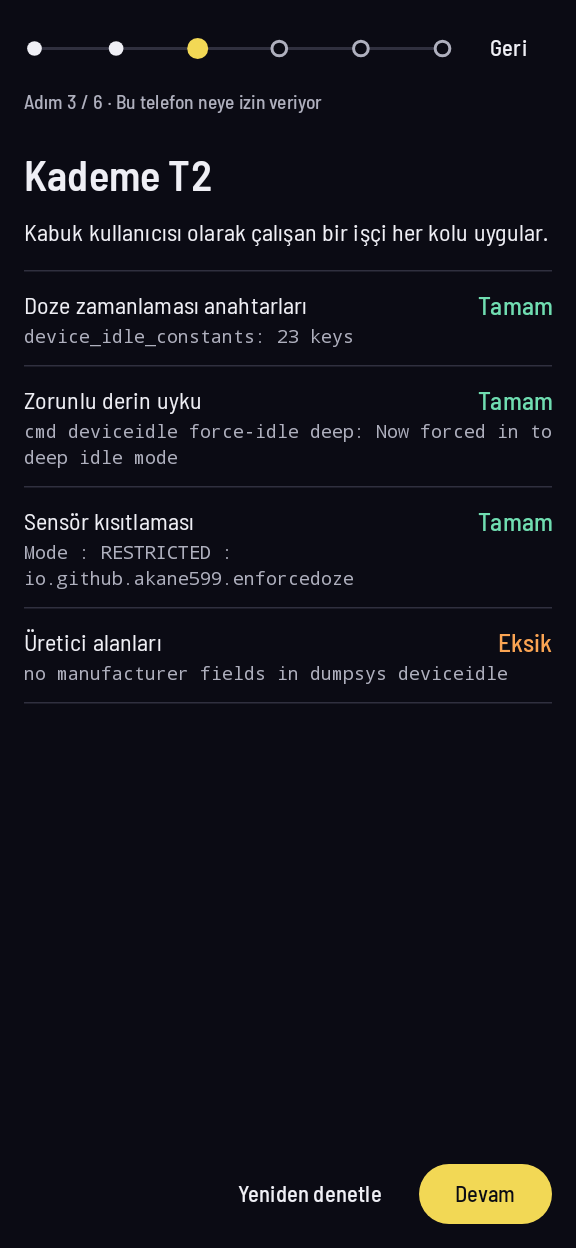
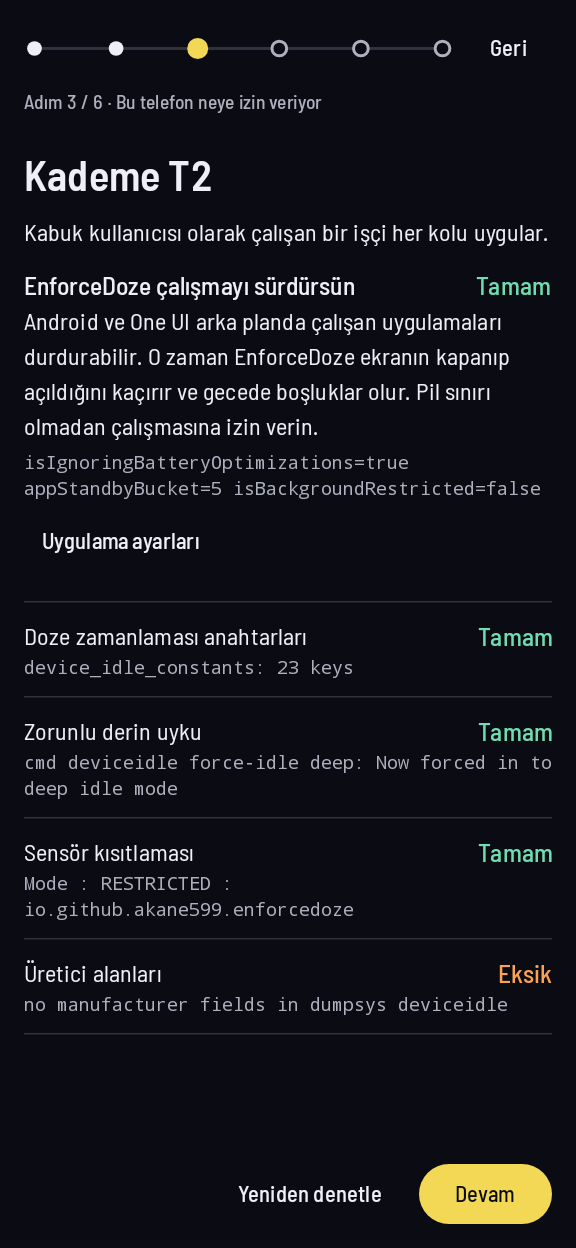
feat(onboarding): keep EnforceDoze running (SPEC 3.3, parity row 35)
The capabilities step now says whether Android and One UI may stop the
app, read back with public calls (the battery-optimisation exemption,
the standby bucket, background restriction) and shown as raw values.
Allow opens the system's own dialog; App settings opens the app's page.
On a Samsung phone the step names where Never sleeping apps lives; that
path is checked in the next phone session (Q14). The state is read
again when the owner comes back.

diff --git a/feature/onboarding/src/main/kotlin/io/github/akane599/enforcedoze/feature/onboarding/OnboardingScreen.kt b/feature/onboarding/src/main/kotlin/io/github/akane599/enforcedoze/feature/onboarding/OnboardingScreen.kt
@@ -72,6 +72,10 @@ import io.github.akane599.enforcedoze.ui.word
 public interface OnboardingActions {
     public fun next()
 
+    public fun allowBackground()
+
+    public fun openAppSettings()
+
     public fun back()
 
     public fun grant()
@@ -113,7 +117,7 @@ public fun OnboardingScreen(
             when (step) {
                 OnboardingStep.WELCOME -> Welcome()
                 OnboardingStep.PRIVILEGE -> Privilege(state.privilege)
-                OnboardingStep.CAPABILITIES -> Capabilities(state, status.checking)
+                OnboardingStep.CAPABILITIES -> Capabilities(state, status.checking, actions)
                 OnboardingStep.URGENCY -> UrgencyStep(state.urgency, actions)
                 OnboardingStep.PLAN -> PlanStep(state, status.applyOutcome)
                 OnboardingStep.PROOF -> Proof(state)
@@ -253,10 +257,11 @@ private fun Option(title: Int, detail: Int, command: String? = null) {
 }
 
 @Composable
-private fun Capabilities(state: OnboardingState, checking: Boolean) {
+private fun Capabilities(state: OnboardingState, checking: Boolean, actions: OnboardingActions) {
     Heading(tierName(state.tier))
     Body(tierLine(state.tier))
     Spacer(Modifier.height(Space.l))
+    state.keepAlive?.let { KeepAliveBlock(it, actions) }
     val probes = state.probes
     if (probes == null) {
         Quiet(stringResource(if (checking) R.string.onboarding_checking else R.string.onboarding_not_checked))
@@ -279,6 +284,35 @@ private fun Capabilities(state: OnboardingState, checking: Boolean) {
             Text(probe.detail, style = RawLine, color = Ed.palette.quiet, modifier = Modifier.padding(top = Space.xs))
         }
         Rule()
+    }
+}
+
+/** SPEC 3.3: the app must keep running for the nights to be recorded; the system's own dialog grants it. */
+@Composable
+private fun KeepAliveBlock(keepAlive: KeepAlive, actions: OnboardingActions) {
+    val status = if (keepAlive.exempt) ProbeWord.OK else ProbeWord.MISSING
+    Column(Modifier.fillMaxWidth().padding(bottom = Space.l)) {
+        Row(Modifier.semantics(mergeDescendants = true) { }, verticalAlignment = Alignment.Top) {
+            Text(
+                stringResource(R.string.onboarding_keep_title),
+                style = MaterialTheme.typography.titleMedium,
+                color = Ed.palette.ink,
+                modifier = Modifier.weight(1f),
+            )
+            Text(
+                stringResource(status.word()),
+                style = MaterialTheme.typography.titleMedium,
+                color = status.tone().color(neutral = Ed.palette.quiet),
+                modifier = Modifier.padding(start = Space.m),
+            )
+        }
+        Body(stringResource(R.string.onboarding_keep_body), Modifier.padding(top = Space.xs))
+        if (keepAlive.samsung) Quiet(stringResource(R.string.onboarding_keep_samsung), Modifier.padding(top = Space.s))
+        Text(keepAlive.detail, style = RawLine, color = Ed.palette.quiet, modifier = Modifier.padding(top = Space.s))
+        Row(Modifier.padding(top = Space.xs)) {
+            if (!keepAlive.exempt) Secondary(R.string.onboarding_keep_allow, actions::allowBackground)
+            Secondary(R.string.onboarding_keep_settings, actions::openAppSettings)
+        }
     }
 }
 

diff --git a/app/src/main/kotlin/io/github/akane599/enforcedoze/app/ui/KeepAliveReader.kt b/app/src/main/kotlin/io/github/akane599/enforcedoze/app/ui/KeepAliveReader.kt
@@ -1,0 +1,64 @@
+// SPDX-License-Identifier: GPL-3.0-or-later
+package io.github.akane599.enforcedoze.app.ui
+
+import android.annotation.SuppressLint
+import android.app.ActivityManager
+import android.app.usage.UsageStatsManager
+import android.content.ActivityNotFoundException
+import android.content.Context
+import android.content.Intent
+import android.net.Uri
+import android.os.Build
+import android.os.PowerManager
+import android.provider.Settings
+import android.util.Log
+import io.github.akane599.enforcedoze.feature.onboarding.KeepAlive
+
+/**
+ * Whether the system lets the app run in the background (SPEC 3.3, parity row 35), from public SDK calls only:
+ * `PowerManager.isIgnoringBatteryOptimizations`, `UsageStatsManager.getAppStandbyBucket` and
+ * `ActivityManager.isBackgroundRestricted`. One UI's "Never sleeping apps" list has no public reading, so the
+ * onboarding text names where it is.
+ */
+internal object KeepAliveReader {
+    private const val TAG = "KeepAlive"
+
+    fun read(context: Context): KeepAlive = of(
+        exempt = context.getSystemService(PowerManager::class.java).isIgnoringBatteryOptimizations(context.packageName),
+        bucket = context.getSystemService(UsageStatsManager::class.java).appStandbyBucket,
+        restricted = context.getSystemService(ActivityManager::class.java).isBackgroundRestricted,
+        manufacturer = Build.MANUFACTURER,
+    )
+
+    fun of(exempt: Boolean, bucket: Int, restricted: Boolean, manufacturer: String): KeepAlive = KeepAlive(
+        exempt = exempt && !restricted,
+        detail = "isIgnoringBatteryOptimizations=$exempt appStandbyBucket=$bucket isBackgroundRestricted=$restricted",
+        samsung = manufacturer.equals("samsung", ignoreCase = true),
+    )
+
+    /**
+     * The system's own dialog (`ACTION_REQUEST_IGNORE_BATTERY_OPTIMIZATIONS`, which needs
+     * `REQUEST_IGNORE_BATTERY_OPTIMIZATIONS`); the app's settings page when it is missing.
+     */
+    // BatteryLife is Play's policy check. The fork ships through GitHub Releases (SPEC 12.6), and a Doze manager that must
+    // see every screen-off is the use case the exemption exists for; the owner confirms it in the system's dialog.
+    @SuppressLint("BatteryLife")
+    fun requestExemption(context: Context) {
+        val request = Intent(Settings.ACTION_REQUEST_IGNORE_BATTERY_OPTIMIZATIONS, packageUri(context))
+        if (!start(context, request)) openAppSettings(context)
+    }
+
+    fun openAppSettings(context: Context) {
+        start(context, Intent(Settings.ACTION_APPLICATION_DETAILS_SETTINGS, packageUri(context)))
+    }
+
+    private fun packageUri(context: Context): Uri = Uri.fromParts("package", context.packageName, null)
+
+    private fun start(context: Context, intent: Intent): Boolean = try {
+        context.startActivity(intent.addFlags(Intent.FLAG_ACTIVITY_NEW_TASK))
+        true
+    } catch (e: ActivityNotFoundException) {
+        Log.w(TAG, "no activity for ${intent.action}", e)
+        false
+    }
+}

diff --git a/app/src/main/kotlin/io/github/akane599/enforcedoze/app/ui/AppOnboardingSource.kt b/app/src/main/kotlin/io/github/akane599/enforcedoze/app/ui/AppOnboardingSource.kt
@@ -25,6 +25,7 @@ import kotlinx.coroutines.flow.combine
 /** Onboarding (SPEC 9.1) over the privilege layer, the capability probes, the recommendation and the quick proof. */
 internal class AppOnboardingSource(private val services: AppServices) : OnboardingSource {
     private val applied = MutableStateFlow<Plan?>(null)
+    private val keepAliveReads = MutableStateFlow(0)
 
     override val state: Flow<OnboardingState> = combine(
         combine(services.graph.controller.state, services.capabilities, services.prefs.changes) { privilege, report, _ ->
@@ -33,8 +34,8 @@ internal class AppOnboardingSource(private val services: AppServices) : Onboardi
         services.recommendations.current,
         services.profileNames,
         services.proof,
-        applied,
-    ) { (privilege, report), recommendation, names, proof, plan ->
+        combine(applied, keepAliveReads) { plan, _ -> plan to KeepAliveReader.read(services.graph.app) },
+    ) { (privilege, report), recommendation, names, proof, (plan, keepAlive) ->
         OnboardingState(
             privilege = finding(privilege),
             tier = privilege.tier.ordinal,
@@ -44,6 +45,7 @@ internal class AppOnboardingSource(private val services: AppServices) : Onboardi
             profileNames = names,
             proof = proof,
             applied = plan,
+            keepAlive = keepAlive,
         )
     }
 
@@ -51,6 +53,14 @@ internal class AppOnboardingSource(private val services: AppServices) : Onboardi
     private fun title(result: ProbeResult): String = PROBE_TITLES[result.id]?.let(services.graph.app::getString) ?: result.title
 
     override fun requestPermission() = services.graph.controller.requestShizukuPermission()
+
+    override fun allowBackground() = KeepAliveReader.requestExemption(services.graph.app)
+
+    override fun openAppSettings() = KeepAliveReader.openAppSettings(services.graph.app)
+
+    override fun refreshKeepAlive() {
+        keepAliveReads.value++
+    }
 
     override suspend fun recheck() {
         services.graph.controller.refresh()

diff --git a/feature/onboarding/src/main/kotlin/io/github/akane599/enforcedoze/feature/onboarding/OnboardingState.kt b/feature/onboarding/src/main/kotlin/io/github/akane599/enforcedoze/feature/onboarding/OnboardingState.kt
@@ -33,6 +33,20 @@ public enum class ProbeWord { OK, MISSING, FAILED, SKIPPED }
 @Immutable
 public data class ProbeLine(val title: String, val status: ProbeWord, val detail: String)
 
+/**
+ * Whether the system lets EnforceDoze run in the background (SPEC 3.3). Without the battery-optimisation exemption,
+ * Android and One UI may stop it, and the nights get gaps.
+ */
+@Immutable
+public data class KeepAlive(
+    /** Exempt from battery optimisation and not background-restricted. */
+    val exempt: Boolean,
+    /** The platform's own values, as a raw line (SPEC 9.3). */
+    val detail: String,
+    /** A Samsung phone, where One UI's "Never sleeping apps" list applies as well. */
+    val samsung: Boolean,
+)
+
 /** Everything onboarding shows, mapped by the app from the privilege session, the probes and the recommender. */
 @Immutable
 public data class OnboardingState(
@@ -49,6 +63,8 @@ public data class OnboardingState(
     val proof: List<ProofStep>? = null,
     /** The plan the engine runs now: after Apply, the recommended one. */
     val applied: Plan? = null,
+    /** Null until read. */
+    val keepAlive: KeepAlive? = null,
 ) {
     /** Levers can be applied: tier T2 or T3 (SPEC 4.1). */
     public val canWrite: Boolean get() = tier >= WORKER_TIER
@@ -72,6 +88,15 @@ public interface OnboardingSource {
 
     /** Probes the server and the capabilities again (SPEC 4.4). */
     public suspend fun recheck()
+
+    /** The system's request to exempt EnforceDoze from battery optimisation (SPEC 3.3). */
+    public fun allowBackground()
+
+    /** The app's page in the system settings, where One UI keeps its battery options. */
+    public fun openAppSettings()
+
+    /** Reads [OnboardingState.keepAlive] again, as when the owner comes back from the system's dialog. */
+    public fun refreshKeepAlive()
 
     public suspend fun answer(urgency: Urgency)
 

diff --git a/feature/onboarding/src/test/kotlin/io/github/akane599/enforcedoze/feature/onboarding/OnboardingScreenshotTest.kt b/feature/onboarding/src/test/kotlin/io/github/akane599/enforcedoze/feature/onboarding/OnboardingScreenshotTest.kt
@@ -63,6 +63,11 @@ class OnboardingScreenshotTest {
         ),
         recommendation = recommendation,
         profileNames = mapOf("everyday" to "Everyday", "night" to "Night"),
+        keepAlive = KeepAlive(
+            exempt = true,
+            detail = "isIgnoringBatteryOptimizations=true appStandbyBucket=5 isBackgroundRestricted=false",
+            samsung = false,
+        ),
     )
 
     @Test fun welcome() = shoot(MODULE, "welcome") { OnboardingScreen(shell(), OnboardingStep.WELCOME, NoOnboarding) }
@@ -84,6 +89,20 @@ class OnboardingScreenshotTest {
     }
 
     @Test fun capabilities() = shoot(MODULE, "capabilities") { OnboardingScreen(shell(), OnboardingStep.CAPABILITIES, NoOnboarding) }
+
+    /** SPEC 3.3 on a Samsung phone that may still put the app to sleep. */
+    @Test fun capabilitiesKeepAlive() = shoot(
+        MODULE,
+        "capabilities-keep-alive",
+        listOf(Primary, Primary.copy(dark = false, turkish = true)),
+    ) {
+        val sleeping = KeepAlive(
+            exempt = false,
+            detail = "isIgnoringBatteryOptimizations=false appStandbyBucket=30 isBackgroundRestricted=false",
+            samsung = true,
+        )
+        OnboardingScreen(shell().copy(keepAlive = sleeping), OnboardingStep.CAPABILITIES, NoOnboarding)
+    }
 
     @Test fun urgency() = shoot(MODULE, "urgency", listOf(Primary, Primary.copy(dark = false, turkish = true, largeFont = true))) {
         OnboardingScreen(shell().copy(urgency = Urgency.IT_CAN_WAIT), OnboardingStep.URGENCY, NoOnboarding)
@@ -140,6 +159,10 @@ class OnboardingScreenshotTest {
 }
 
 private object NoOnboarding : OnboardingActions {
+    override fun allowBackground() = Unit
+
+    override fun openAppSettings() = Unit
+
     override fun next() = Unit
     override fun back() = Unit
     override fun grant() = Unit

diff --git a/app/src/test/kotlin/io/github/akane599/enforcedoze/app/ui/KeepAliveTest.kt b/app/src/test/kotlin/io/github/akane599/enforcedoze/app/ui/KeepAliveTest.kt
@@ -1,0 +1,24 @@
+// SPDX-License-Identifier: GPL-3.0-or-later
+package io.github.akane599.enforcedoze.app.ui
+
+import com.google.common.truth.Truth.assertThat
+import org.junit.Test
+
+/** SPEC 3.3, parity row 35: what upstream's RequestIgnoreBatteryActivity asked for, read from public calls. */
+class KeepAliveTest {
+    @Test
+    fun `the app keeps running only when exempt and not background-restricted`() {
+        assertThat(KeepAliveReader.of(exempt = true, bucket = 5, restricted = false, manufacturer = "Google").exempt).isTrue()
+        assertThat(KeepAliveReader.of(exempt = false, bucket = 10, restricted = false, manufacturer = "Google").exempt).isFalse()
+        // "Restricted" battery use wins over the allowlist entry: the system may still stop the app.
+        assertThat(KeepAliveReader.of(exempt = true, bucket = 45, restricted = true, manufacturer = "Google").exempt).isFalse()
+    }
+
+    @Test
+    fun `a Samsung phone also gets the Never sleeping apps hint, with the raw values`() {
+        val alive = KeepAliveReader.of(exempt = false, bucket = 30, restricted = false, manufacturer = "samsung")
+        assertThat(alive.samsung).isTrue()
+        assertThat(alive.detail).isEqualTo("isIgnoringBatteryOptimizations=false appStandbyBucket=30 isBackgroundRestricted=false")
+        assertThat(KeepAliveReader.of(true, 5, false, "Google").samsung).isFalse()
+    }
+}

diff --git a/feature/onboarding/src/main/kotlin/io/github/akane599/enforcedoze/feature/onboarding/OnboardingRoute.kt b/feature/onboarding/src/main/kotlin/io/github/akane599/enforcedoze/feature/onboarding/OnboardingRoute.kt
@@ -8,6 +8,7 @@ import androidx.compose.foundation.layout.fillMaxSize
 import androidx.compose.runtime.Composable
 import androidx.compose.runtime.getValue
 import androidx.compose.ui.Modifier
+import androidx.lifecycle.compose.LifecycleResumeEffect
 import androidx.lifecycle.compose.collectAsStateWithLifecycle
 import io.github.akane599.enforcedoze.design.Ed
 import io.github.akane599.enforcedoze.recommend.Urgency
@@ -21,8 +22,15 @@ public fun OnboardingRoute(viewModel: OnboardingViewModel, navigation: Onboardin
     val applyOutcome by viewModel.applyOutcome.collectAsStateWithLifecycle()
     val current = state ?: return Box(modifier.fillMaxSize().background(Ed.palette.ground))
     BackHandler(enabled = step != OnboardingStep.WELCOME) { viewModel.back() }
+    // Back from the system's battery dialog or the app's settings page: read the exemption again.
+    LifecycleResumeEffect(viewModel) {
+        viewModel.refreshKeepAlive()
+        onPauseOrDispose { }
+    }
     val actions = object : OnboardingActions {
         override fun next() = viewModel.next()
+        override fun allowBackground() = viewModel.allowBackground()
+        override fun openAppSettings() = viewModel.openAppSettings()
         override fun back() {
             viewModel.back()
         }

diff --git a/feature/onboarding/src/main/kotlin/io/github/akane599/enforcedoze/feature/onboarding/OnboardingViewModel.kt b/feature/onboarding/src/main/kotlin/io/github/akane599/enforcedoze/feature/onboarding/OnboardingViewModel.kt
@@ -56,6 +56,18 @@ public class OnboardingViewModel(
         source.requestPermission()
     }
 
+    public fun allowBackground() {
+        source.allowBackground()
+    }
+
+    public fun openAppSettings() {
+        source.openAppSettings()
+    }
+
+    public fun refreshKeepAlive() {
+        source.refreshKeepAlive()
+    }
+
     public fun recheck() {
         if (checkingState.value) return
         checkingState.value = true

diff --git a/docs/upstream-audit.md b/docs/upstream-audit.md
@@ -209,7 +209,7 @@ are decided here and listed in `docs/questions.md` Q4 so the owner can object.
 | 32 | Doze tile | `ForceDozeTileService` | port | "Doze plan" tile (9.2, 11.2) | upstream |
 | 33 | Airplane-mode tile | `AirplaneTileService` | drop: the system tile covers it (SPEC 2.3) | — | removed (ADR 0037), dropped |
 | 34 | Doze tunables screen | `DozeTunablesActivity` | port | Custom profiles with guardrails (6.3) | upstream |
-| 35 | Self-allowlist and battery-optimisation request | `RequestIgnoreBatteryActivity` | port | Onboarding, One UI "Never sleeping apps" (3.3, 9.1) | upstream |
+| 35 | Self-allowlist and battery-optimisation request | `RequestIgnoreBatteryActivity` | port | Onboarding, One UI "Never sleeping apps" (3.3, 9.1) | replaced (ADR 0034): the capabilities step asks through the system dialog and reads the exemption back; `KeepAliveTest`, `OnboardingScreenshotTest`. The class stays while upstream code that is still in the tree uses it |
 | 36 | Start at boot and after update | `BootCompleteReceiver`, `AutoRestartOnUpdate` | port | Foreground service start (12.4) | replaced (ADR 0037): `EngineStartReceiver` (boot, own update only); `EngineStartTest` |
 | 37 | Re-enable Doze when disabled | `MainActivity` dialog | port | Capability probe and onboarding (4.4) | upstream |
 | 38 | About, sponsor link, Custom Tabs | `AboutAppActivity`, `CustomTabs` | port About with GPL notice and credits; drop the in-app Custom Tabs browser (links open the default browser) | Settings → About (9.1, 12.1) | About replaced (ADR 0037): Settings credits, `NOTICE` and licence assets; `LicenceAssetTest`, `SettingsScreenshotTest`. `CustomTabs` stays until the classes that use it go |

diff --git a/docs/adr/0034-p6-decisions.md b/docs/adr/0034-p6-decisions.md
@@ -70,6 +70,17 @@ around it.
 - **P6 debug commands** (`automation`, `automation-token`, `import-setup`, `switch-check`,
   `switch-state`) drive `tools/emulator/p6-integrations.sh`. They exist only in debug builds, like the
   other gate commands.
+- **Keeping the app running (SPEC 3.3, parity row 35) is a block in the capabilities step**, not a
+  seventh step, because SPEC 9.1 counts six.
+  - "Allow" opens the system's own dialog (`ACTION_REQUEST_IGNORE_BATTERY_OPTIMIZATIONS`), and
+    "App settings" opens the app's system page.
+  - The state is read back on return with public calls, shown as raw values: the exemption, the
+    standby bucket, background restriction.
+  - Background restriction counts as missing even with the exemption.
+  - One UI's "Never sleeping apps" has no public reading, so on Samsung the text names its path
+    (Q14).
+  - The worker could add the app to the allowlist silently. It does not: the owner should see and
+    grant this exemption.
 
 ## Review
 

diff --git a/docs/questions.md b/docs/questions.md
@@ -39,6 +39,13 @@ Non-blocking questions for the owner. Each states the default in use, so work co
   Allowlist screen and the report's "Add to allowlist" cover it by hand. Say "port" and it is built as
   two token-checked actions, under the conditions in ADR 0036, with a per-client switch that is off by
   default.
+- **Q14. One UI's "Never sleeping apps" path.** Onboarding asks for the battery-optimisation exemption
+  through the system's own dialog and reads it back with public calls. One UI's sleeping lists have no
+  public reading or documented deep link. The step therefore names the path instead: Settings › Battery
+  › Background usage limits, "Hiç uyumayan uygulamalar" in Turkish. This comes from One UI 6–8 and has
+  not been checked on One UI 9. *Default:* the text stays as it is and is checked read-only in the next
+  phone session (`cmd package resolve-activity` and a look at the menu). Say if the S22 may be used for
+  it.
 
 ## Answered
 
